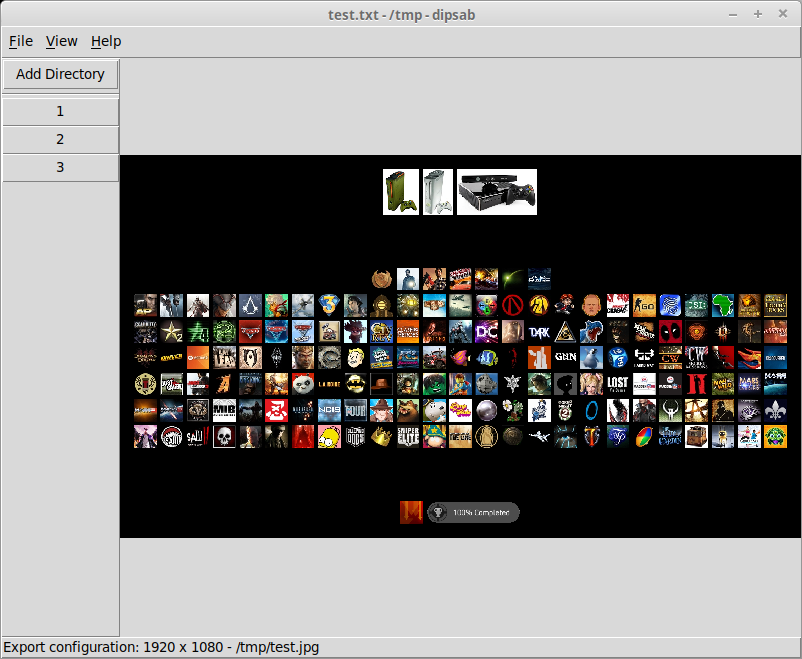
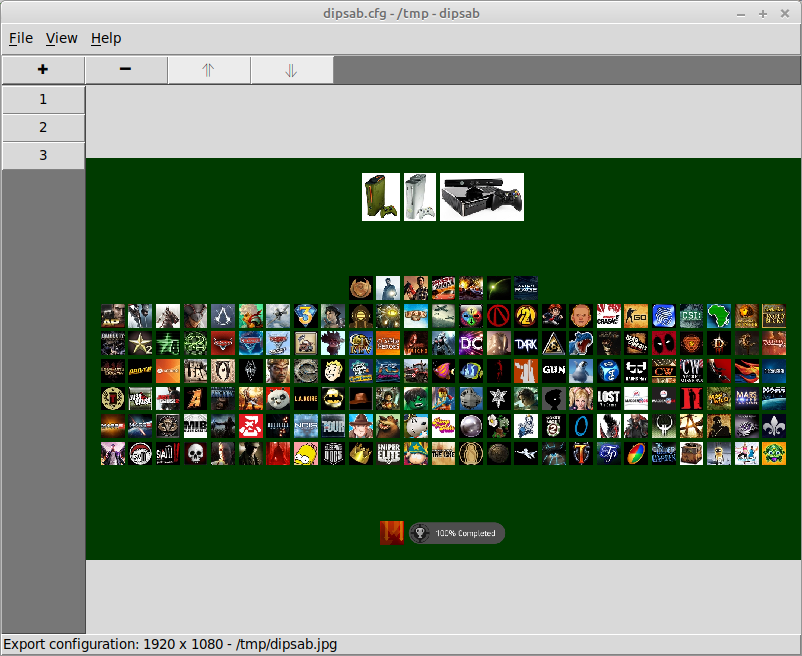
Alpha blending directory images against the background color.

diff --git a/dirim.py b/dirim.py
@@ -103,18 +103,22 @@ def dirim(cl_args):
         total_width = sum(widths) + hpad * (len(widths) - 1)
         offset_x = (max_width - total_width) // 2
 
-        result_row = Image.new('RGB', (max_width, max_height), color=cl_args['bgcolor'])
+        result_row = Image.new('RGBA', (max_width, max_height), color=cl_args['bgcolor'])
         images = map(Image.open, row)
-        for img in images:
-            result_row.paste(img, (offset_x, 0))
-            offset_x += hpad + img.size[0]
+        for img in row:
+            showing = Image.open(img).convert('RGBA')
+            bbox = (offset_x, 0, offset_x + showing.size[0], showing.size[1])
+            cropped = result_row.crop(bbox)
+            showing = Image.composite(showing, cropped, mask=showing)
+            result_row.paste(showing, (offset_x, 0))
+            offset_x += hpad + showing.size[0]
 
         layers.append(result_row)
         total_height += result_row.size[1]
 
     layers.reverse()
     offset_y = 0
-    final_image = Image.new('RGB', (max_width, total_height), color=cl_args['bgcolor'])
+    final_image = Image.new('RGBA', (max_width, total_height), color=cl_args['bgcolor'])
     for row in layers:
         final_image.paste(row, (0, offset_y))
         offset_y += vpad + row.size[1]
